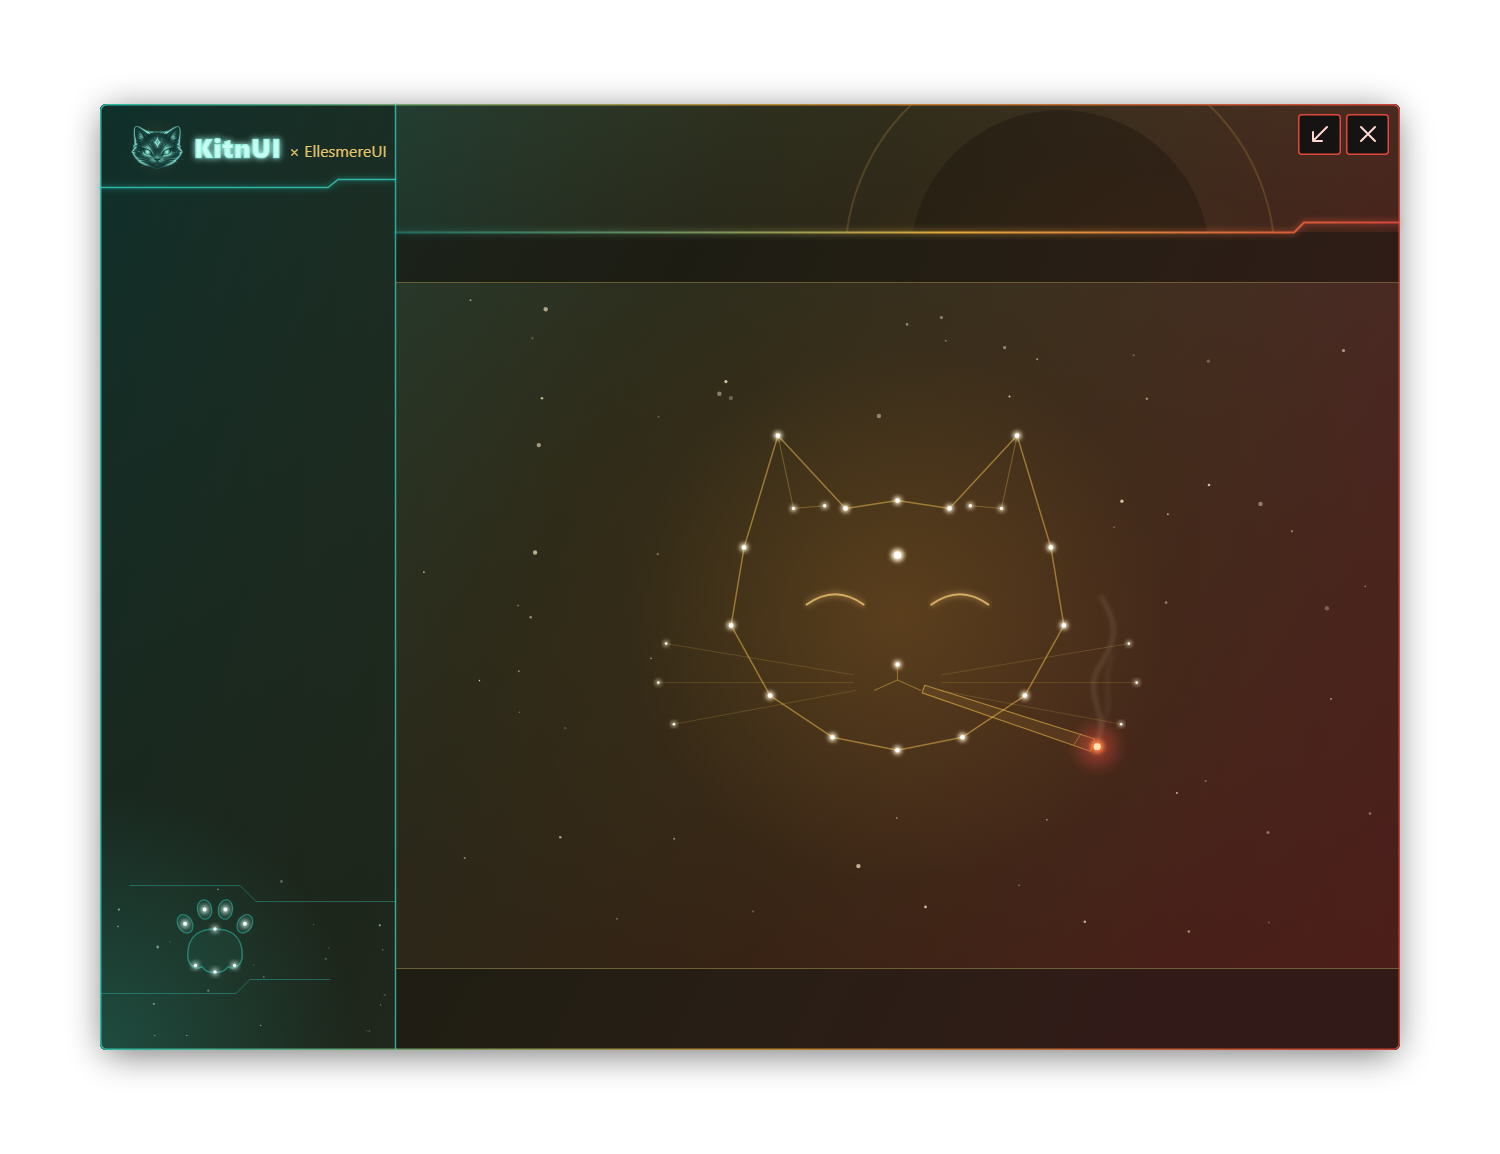
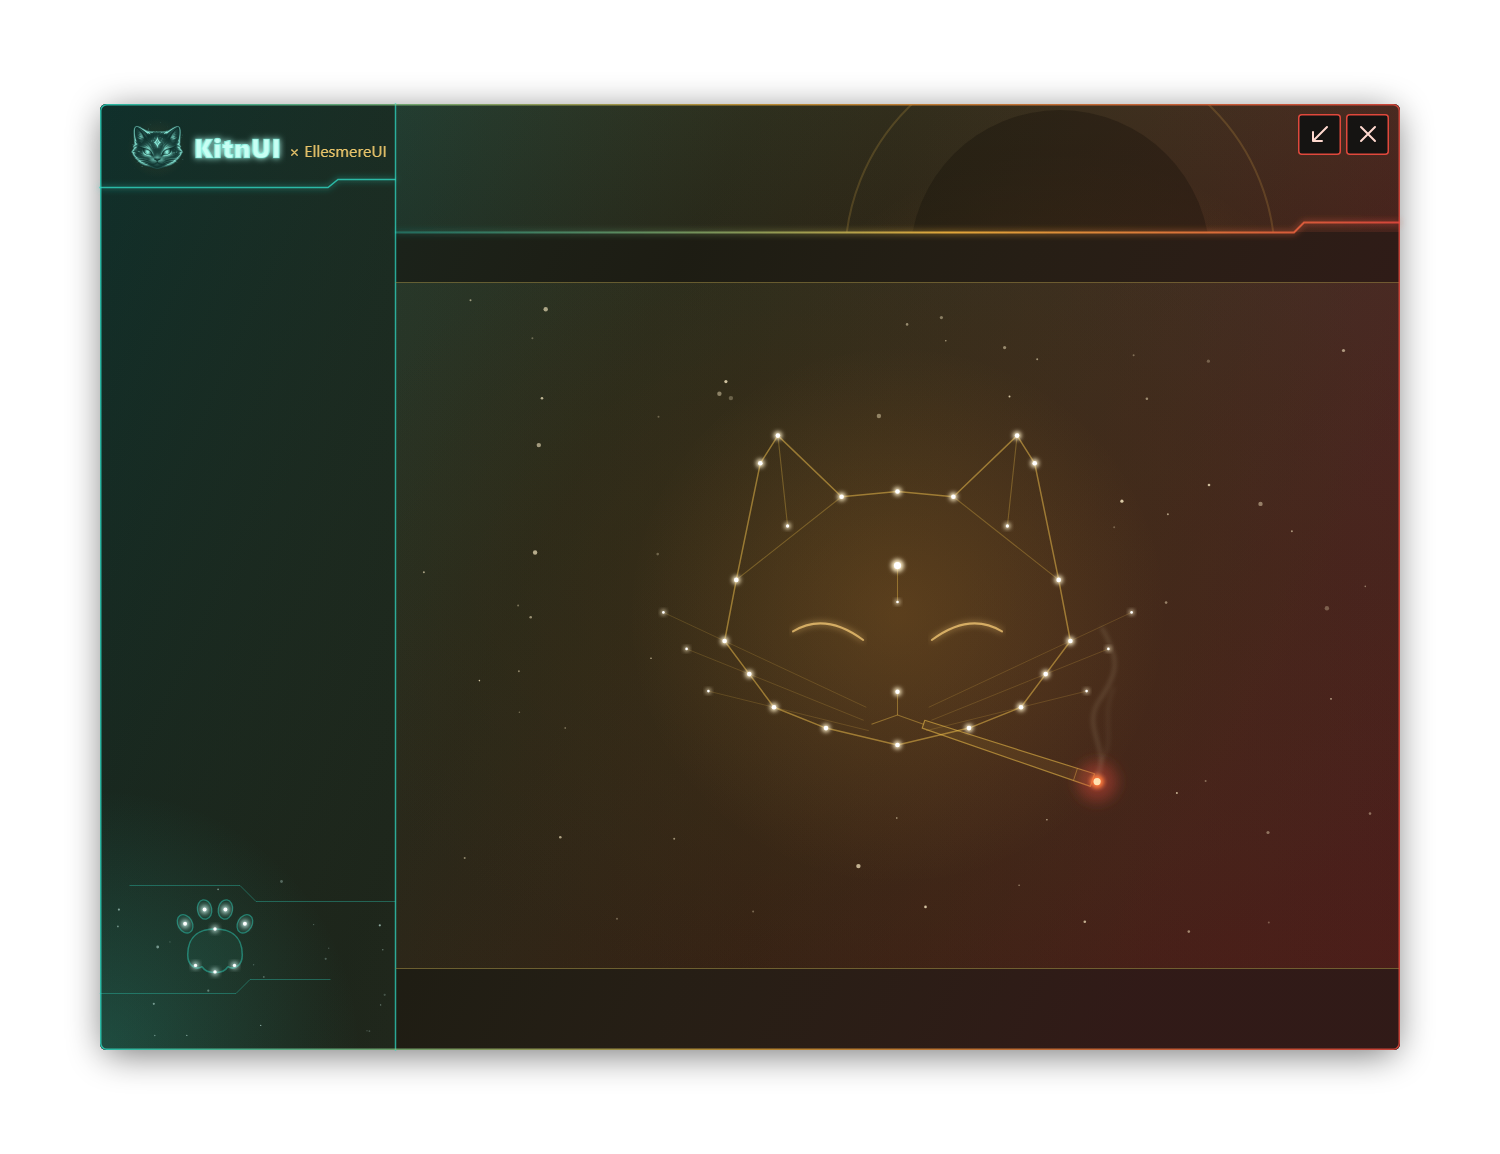
draw the tall-ears cat head on the installer and options backgrounds
The constellation head gets taller pointed ears closed by a chord, a broader jaw, longer closed-eye arcs and a forehead star with a short tail. The Rasta blunt now hangs from the new mouth corner. Only the head inside each background changes; the frame, field stars and shadow margin are untouched.

diff --git a/dev/art/build_installer_art.py b/dev/art/build_installer_art.py
@@ -88,33 +88,38 @@ def constellation(t):
             continue
         r = rnd.choice([0.6, 0.8, 0.8, 1.0, 1.3, 1.7])
         field.append(f'<circle cx="{x:.1f}" cy="{y:.1f}" r="{r}" fill="{t["star"]}" opacity="{rnd.uniform(0.25, 0.8):.2f}"/>')
-    outline = [(-92, -138), (-118, -52), (-128, 8), (-98, 62), (-50, 94), (0, 104), (50, 94), (98, 62), (128, 8),
-               (118, -52), (92, -138), (40, -82), (0, -88), (-40, -82)]
-    ear_l, ear_r = [(-92, -138), (-80, -82), (-56, -84)], [(92, -138), (80, -82), (56, -84)]
-    nose, mouth, mark = (0, 38), [(-18, 58), (0, 50), (18, 58)], (0, -46)
-    whiskers = [((-34, 46), (-178, 22)), ((-34, 52), (-184, 52)), ((-32, 58), (-172, 84)),
-                ((34, 46), (178, 22)), ((34, 52), (184, 52)), ((32, 58), (172, 84))]
-    lines = [(poly(outline, True), 0.5, 1.3), (poly(ear_l), 0.3, 1), (poly(ear_r), 0.3, 1),
-             (poly([nose, (0, 50)]) + " " + poly(mouth), 0.4, 1)]
-    lines += [(poly([a, b]), 0.18, 0.9) for a, b in whiskers]
+    m = lambda pts: [(-x, y) for x, y in pts]
+    half = [(-92, -138), (-105.5, -116.7), (-124, -27), (-133, 20), (-114, 45.5), (-95, 71), (-55, 87)]
+    outline = half + [(0, 100)] + m(half)[::-1] + [(43, -91), (0, -95), (-43, -91)]
+    ear_l = [(-124, -27), (-43, -91)]
+    streak_l = [(-92, -138), (-84.5, -68.5)]
+    nose, mouth, mark, mark_tail = (0, 59), [(-20, 84), (0, 77), (20, 84)], (0, -38), (0, -10)
+    whiskers_l = [[(-24, 71), (-133, 20), (-180.1, -2)], [(-26, 81), (-114, 45.5), (-162.2, 26)],
+                  [(-22, 89), (-95, 71), (-145.5, 58.6)]]
+    whiskers = whiskers_l + [m(w) for w in whiskers_l]
+    eye_l = [(-80.4, 12.6), (-55.7, -2.5), (-26.4, 19.2)]
+    lines = [(poly(outline, True), 0.5, 1.3), (poly(ear_l), 0.3, 1), (poly(m(ear_l)), 0.3, 1),
+             (poly(streak_l), 0.3, 1), (poly(m(streak_l)), 0.3, 1), (poly([mark, mark_tail]), 0.4, 1),
+             (poly([nose, (0, 77)]) + " " + poly(mouth), 0.4, 1)]
+    lines += [(poly(w), 0.18, 0.9) for w in whiskers]
     out = [f'<circle cx="{CX}" cy="{CY}" r="190" fill="url(#catGlow)" opacity="0.7"/>'] + field
     out += [f'<path d="{d}" fill="none" stroke="{t["line"]}" stroke-opacity="{o}" stroke-width="{w}" stroke-linejoin="round"/>'
             for d, o, w in lines]
-    for ex in (-48, 48):
-        (x0, y0), (x1, y1), (xc, yc) = P(ex - 22, -8), P(ex + 22, -8), P(ex, -24)
+    for eye in (eye_l, m(eye_l)[::-1]):
+        (x0, y0), (xc, yc), (x1, y1) = (P(*p) for p in eye)
         out.append(f'<path d="M{x0:.1f} {y0:.1f} Q{xc:.1f} {yc:.1f} {x1:.1f} {y1:.1f}" fill="none" stroke="{t["eye"]}" '
                    f'stroke-opacity="0.7" stroke-width="1.7" stroke-linecap="round" filter="url(#glow)"/>')
     out += [star(*P(*p), 3.4, t["star"]) for p in outline]
-    out += [star(*P(*p), 2.5, t["star"]) for p in (ear_l[1], ear_l[2], ear_r[1], ear_r[2])]
-    out += [star(*P(*nose), 3.3, t["star"]), star(*P(*mark), 5.2, t["star"])]
-    out += [star(*P(*b), 2, t["star"]) for _, b in whiskers]
+    out += [star(*P(*p), 2.5, t["star"]) for p in (streak_l[1], m(streak_l)[1])]
+    out += [star(*P(*nose), 3.3, t["star"]), star(*P(*mark), 5.2, t["star"]), star(*P(*mark_tail), 2, t["star"])]
+    out += [star(*P(*w[-1]), 2, t["star"]) for w in whiskers]
     if t["blunt"]:
-        out.append(blunt())
+        out.append(blunt(mouth[2]))
     return "\n    ".join(out)
 
 
-def blunt():
-    (x0, y0), (x1, y1) = P(20, 57), P(150, 100)
+def blunt(corner):
+    (x0, y0), (x1, y1) = P(*corner), P(corner[0] + 130, corner[1] + 43)
     ang = math.atan2(y1 - y0, x1 - x0)
     nx, ny = -math.sin(ang), math.cos(ang)
     off = lambda x, y, d: f"{x + nx * d:.1f} {y + ny * d:.1f}"
